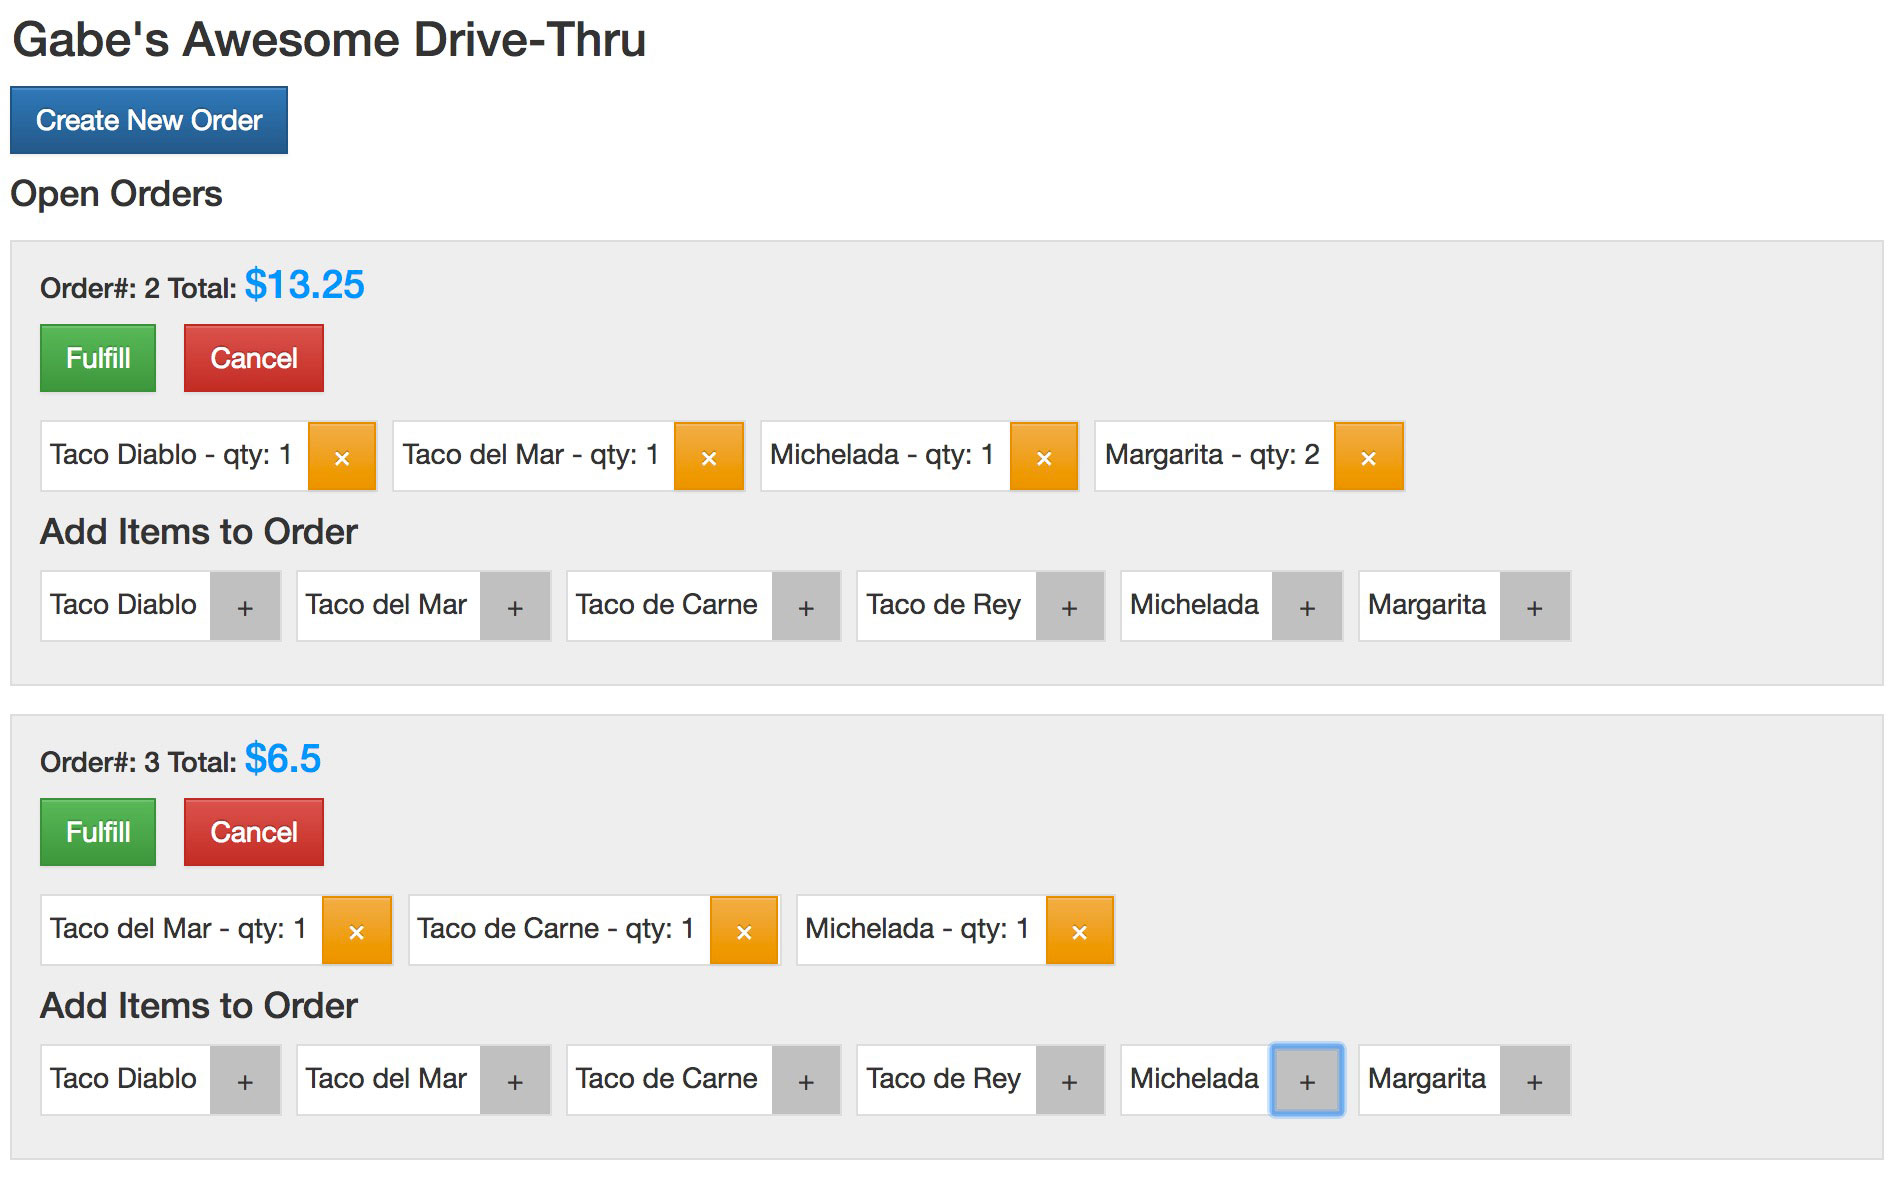
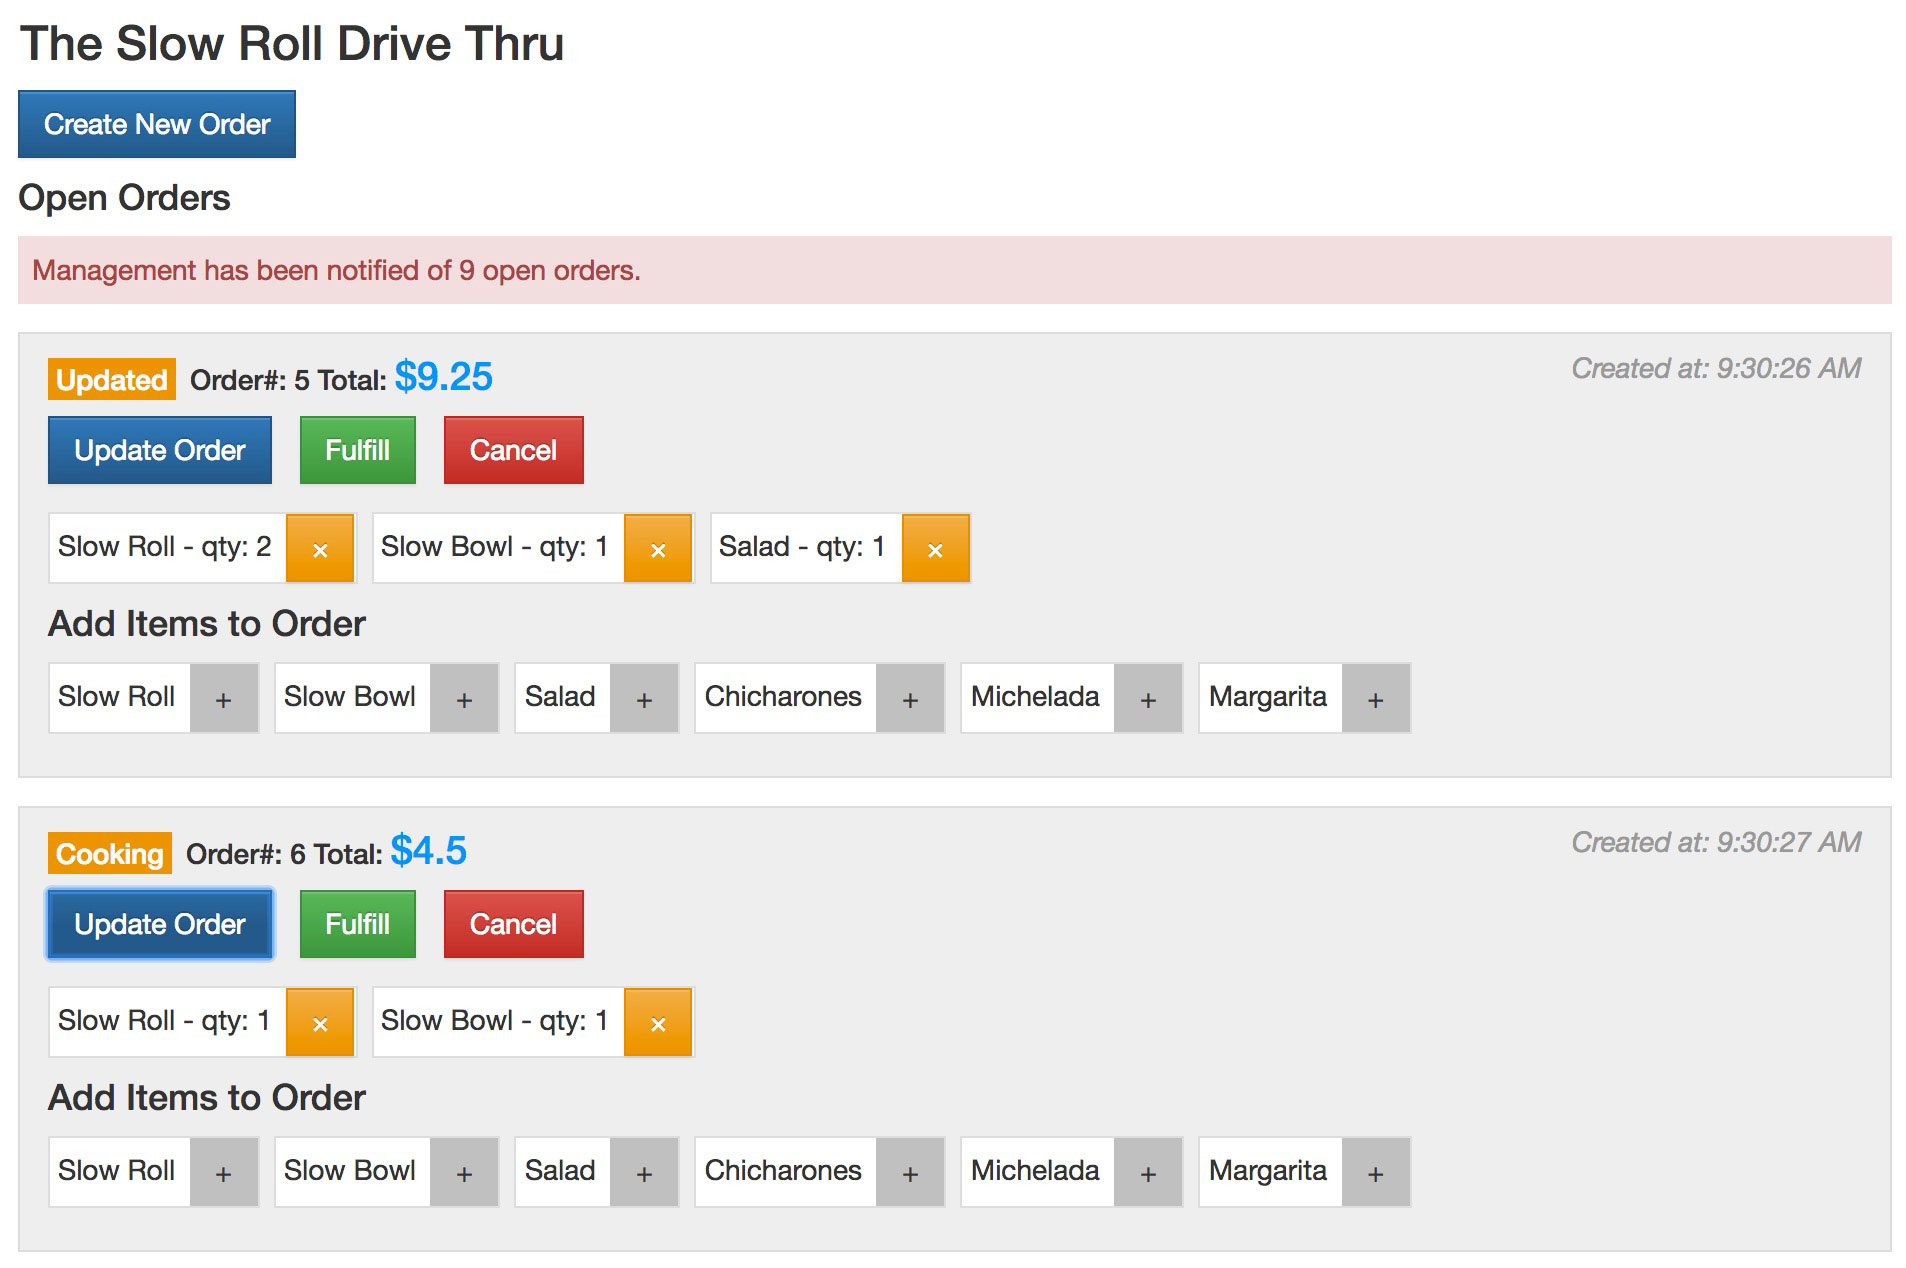
config file

diff --git a/src/actions/index.js b/src/actions/index.js
@@ -1,4 +1,5 @@
 import axios from 'axios';
+import config from '../../config';
 
 export const CREATE_ORDER = 'create_order';
 export const UPDATE_ORDER = 'update_order';
@@ -53,8 +54,8 @@ export function notifyManager(orderCount){
   else if(orderCount < 5){
     warning = false;
   }
-
-  const request = axios.post('http://localhost:3090',{"orders" : orderCount, "warning" : warning });
+  const url = (config.mgmt_server_host || "http://localhost") + ':' + (config.mgmt_server_port || "3090");
+  const request = axios.post(url,{"orders" : orderCount, "warning" : warning });
   return {
     type: NOTIFY_MANAGER,
     payload: request

diff --git a/mgmt-server.js b/mgmt-server.js
@@ -4,6 +4,7 @@ const cors = require('cors');
 const bodyParser = require('body-parser');
 const app = express();
 const morgan = require('morgan');
+const config = require('./config');
 
 app.use(cors());
 app.use(morgan('combined'));
@@ -25,7 +26,7 @@ app.post('/', function(req, res){
   res.json({"message": message, "warning": warning, "orderCount": req.body.orders});
 });
 
-const port = process.env.PORT || 3090
+const port = config.mgmt_server_port || 3090
 const server = http.createServer(app);
 server.listen(port);
 

diff --git a/src/components/header.js b/src/components/header.js
@@ -1,11 +1,13 @@
 import React, { Component } from 'react';
+import config from '../../config';
+
 class Header extends Component {
   render(){
     return (
       <nav className="navbar navbar-light">
         <ul className="nav navbar-nav">
         <li className="nav-item">
-            <h3>The Slow Roll Drive Thru</h3>
+            <h3>{config.restaraunt_name || "Drive-Thru"}</h3>
         </li>
         </ul>
       </nav>

diff --git a/sample-config.js b/sample-config.js
@@ -1,0 +1,5 @@
+module.exports = {
+  restaraunt_name = "Your Restaraunt Name",
+  mgmt_server_port : 3090,
+  mgmt_server_host : "http://localhost"
+}

diff --git a/README.md b/README.md
@@ -58,4 +58,3 @@ npm run test:watch
 
 ### TODO:
 - [ ] update tests
-- [ ] set up alerts to the manager
